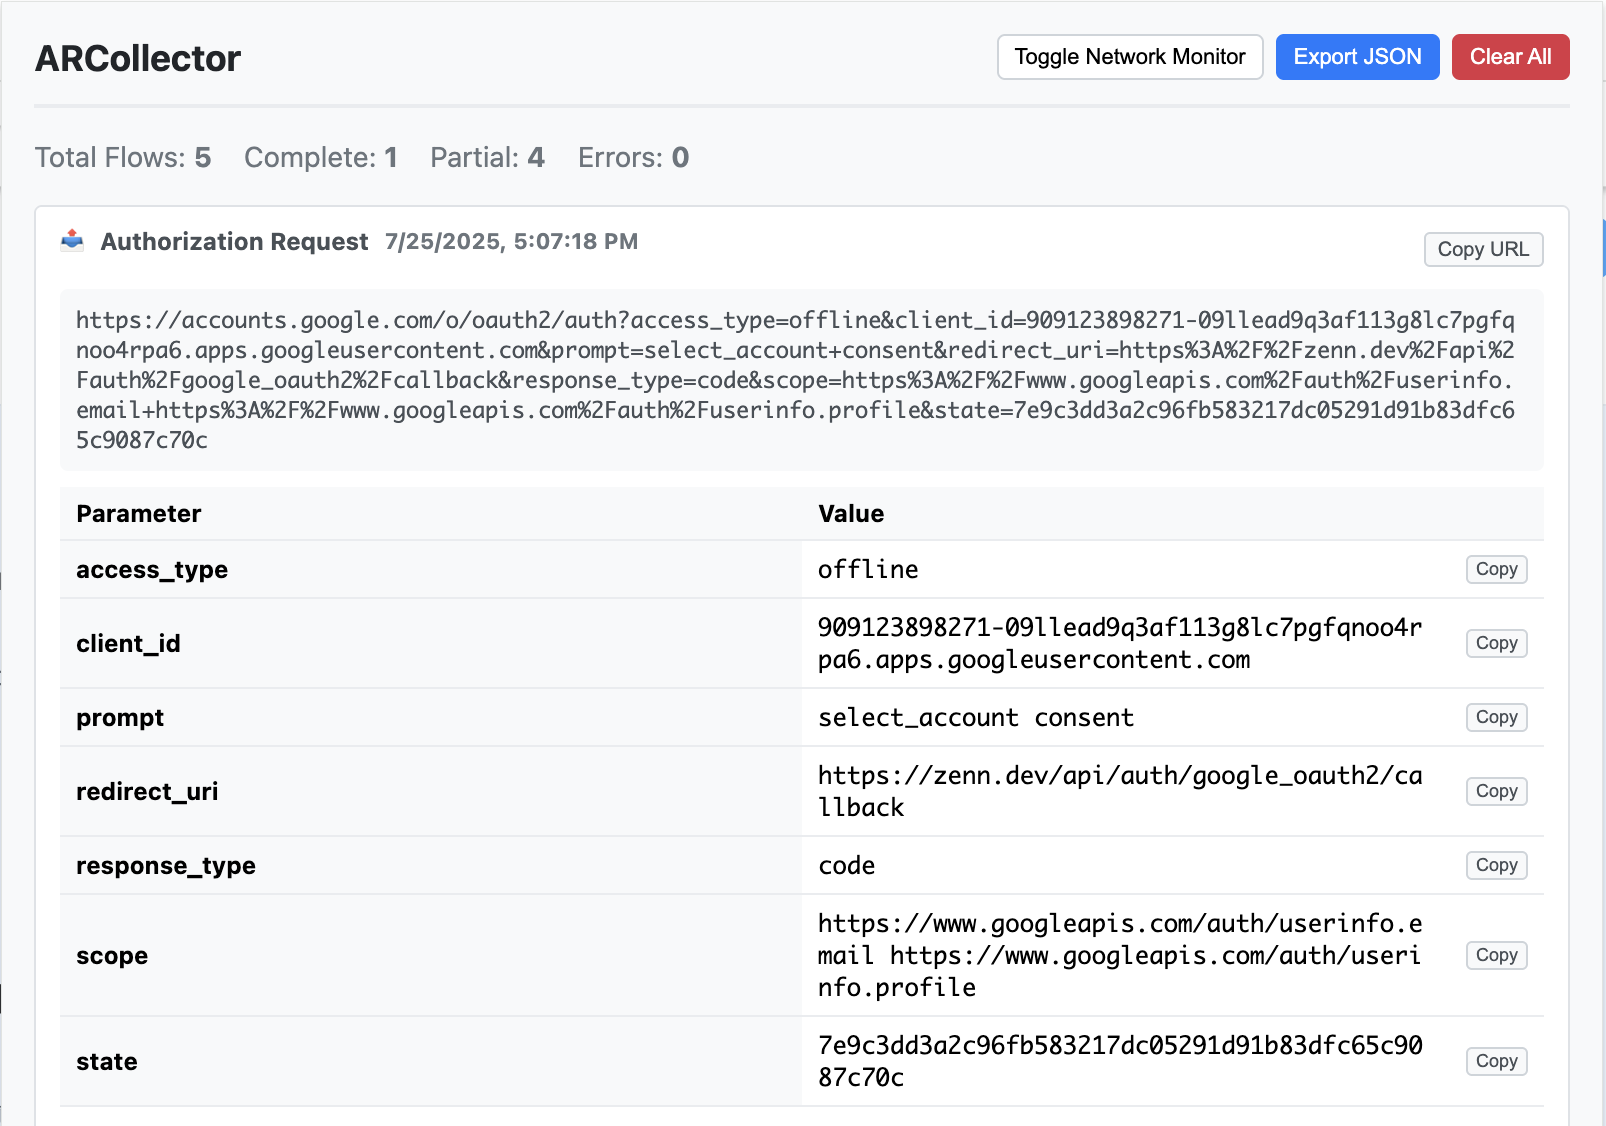
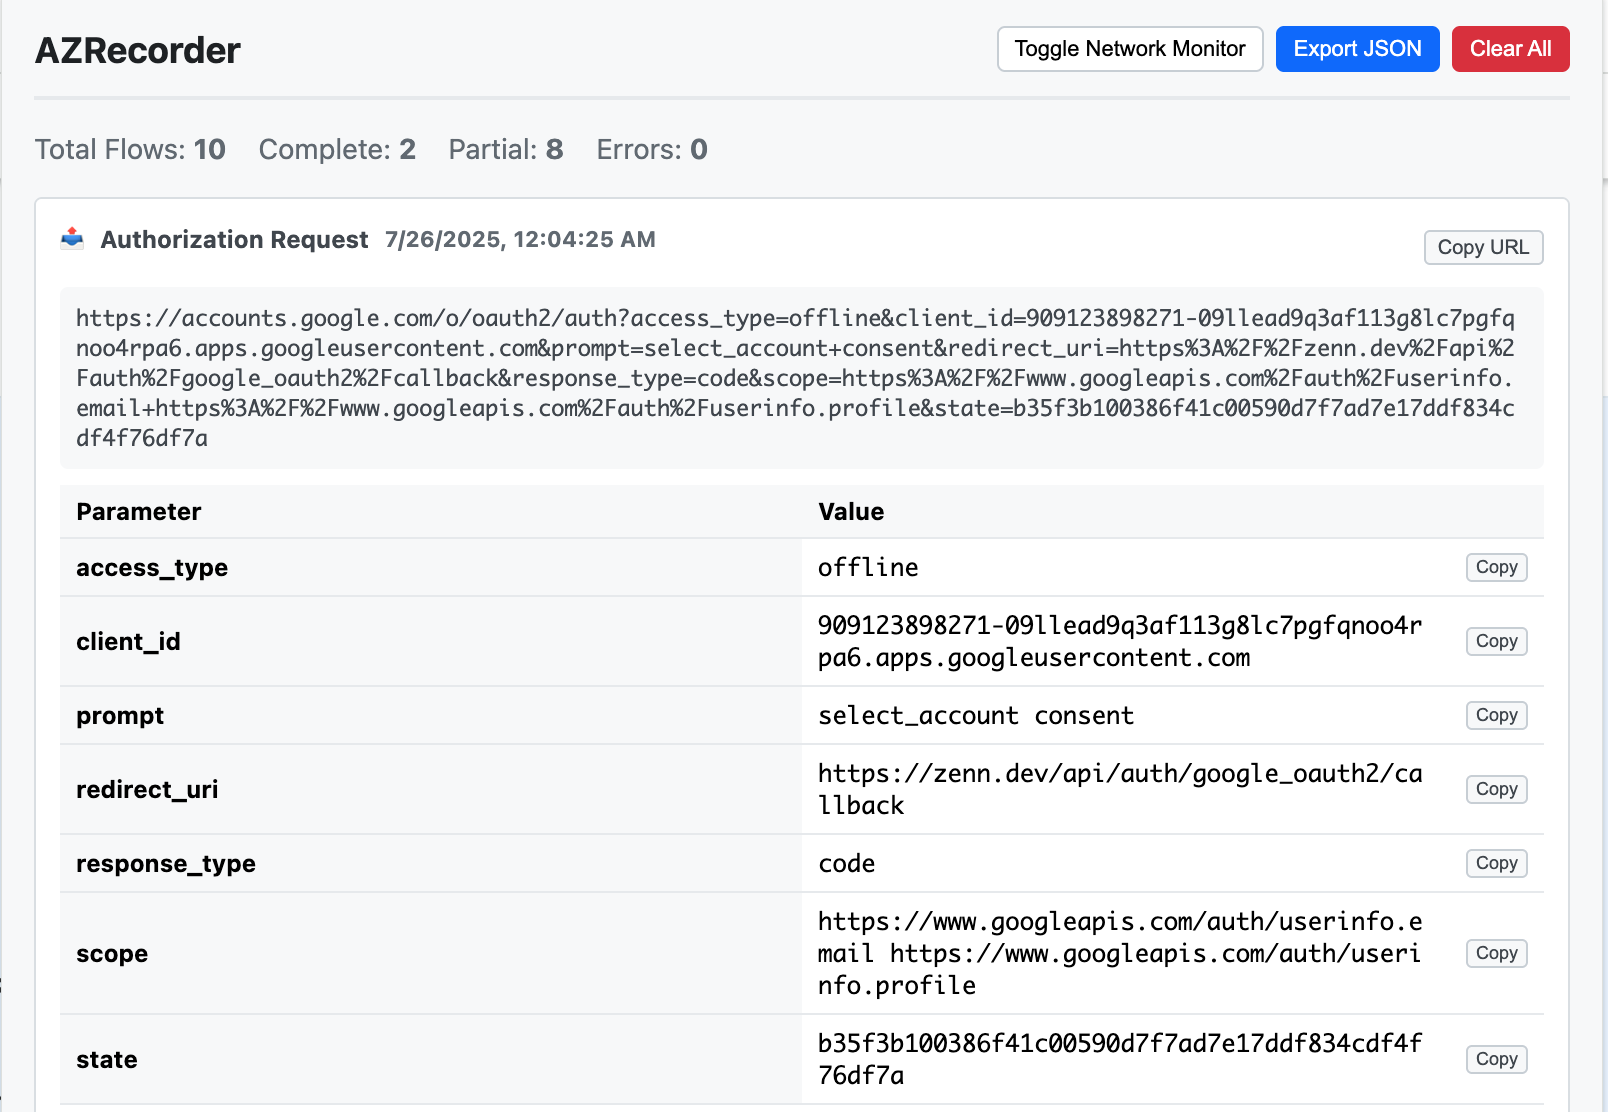
fix

diff --git a/README.md b/README.md
@@ -1,11 +1,13 @@
-# AZRecorder
+# azrecorder
 
 A Chrome extension for recording OAuth authorization requests and responses.
 
 ## Screenshots
 
 ### Authorization Request
+
 ![Request](images/request.png)
 
 ### Authorization Response
+
 ![Response](images/response.png)
